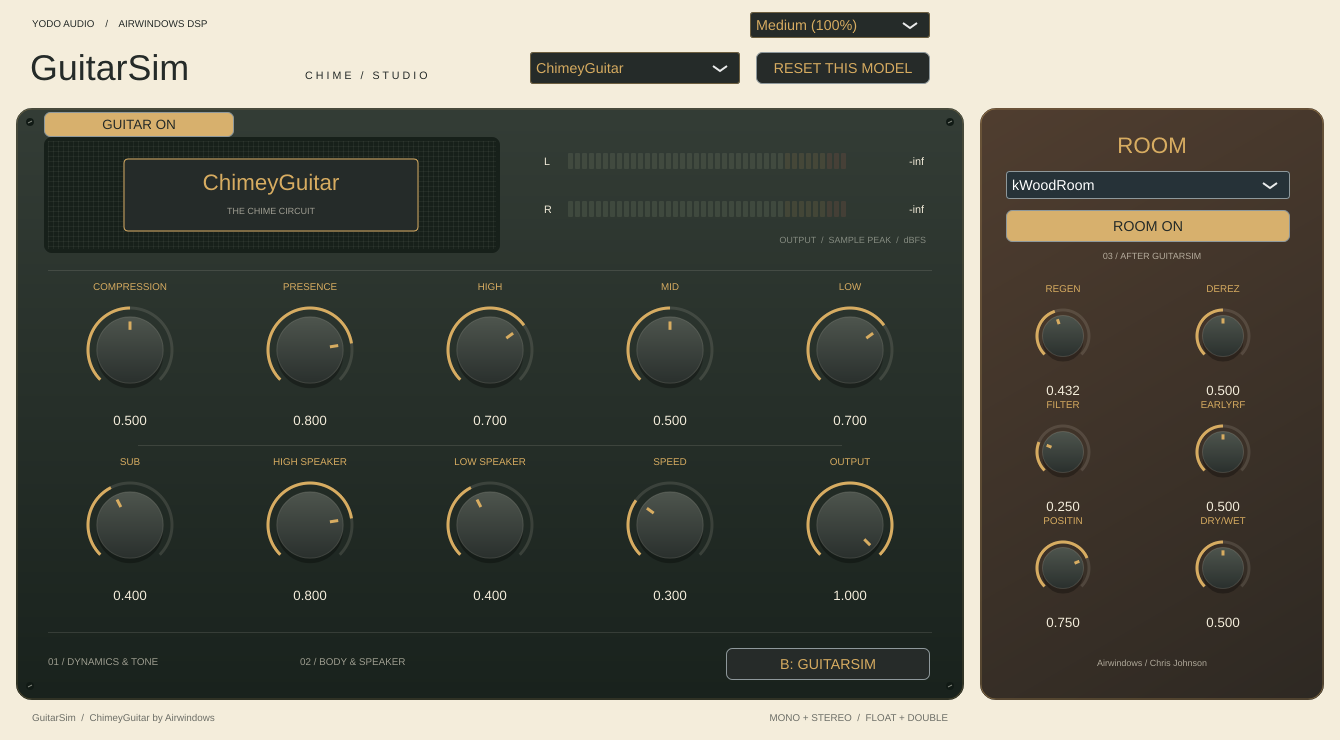
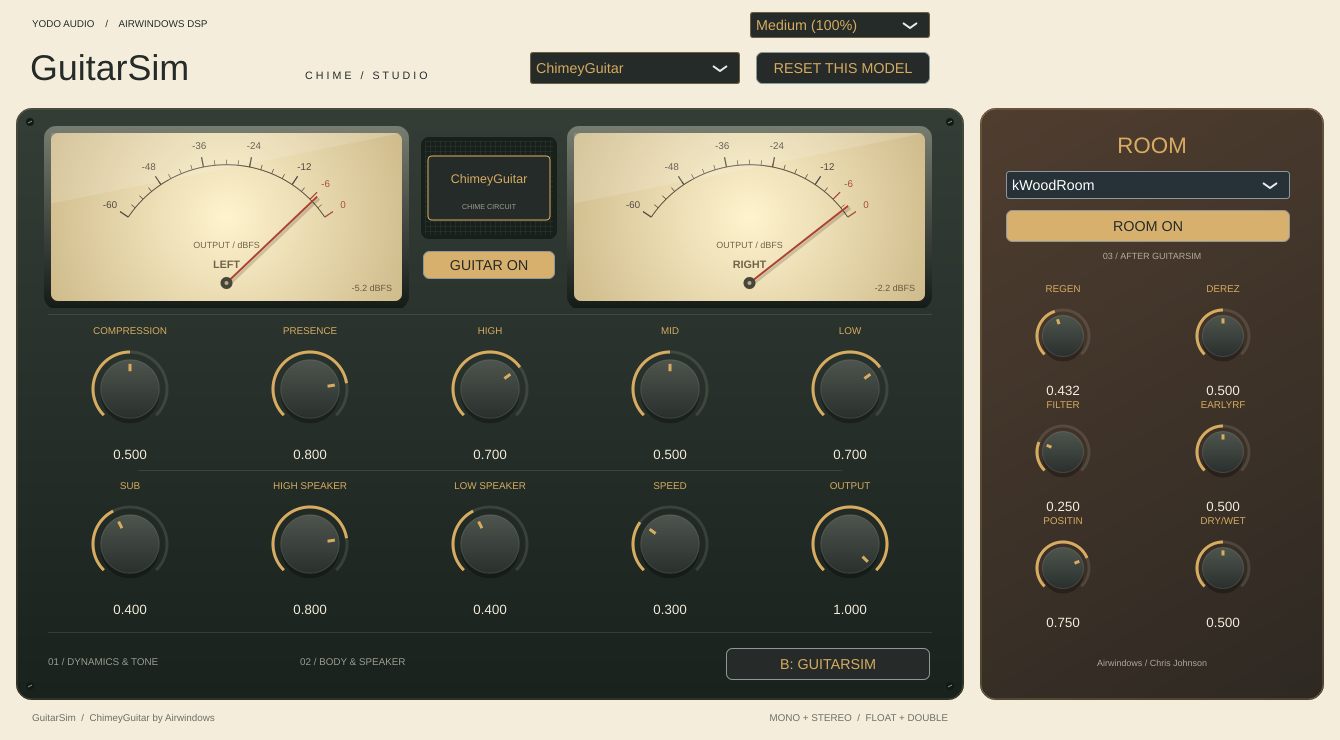
Use Tape-style stereo needle meters with matching damping

diff --git a/Source/Plugin.cpp b/Source/Plugin.cpp
@@ -6,6 +6,8 @@
 #include "kWoodRoomEngine.h"
 #include "WoodenBoxEngine.h"
 #include <atomic>
+#include "OutputMeter.h"
+#include "MeterBallistics.h"
 
 class GuitarProcessor final : public juce::AudioProcessor {
 public:
@@ -47,6 +49,8 @@ public:
     int selectedModel() const { return juce::jlimit(0,2,juce::roundToInt(modelValue->load())); }
     int selectedRoom() const { return roomModelValue->load()>.5f?1:0; }
     void prepareToPlay(double rate,int blockSize) override {
+        meterTimeoutSeconds.store(juce::jmax(.15,2.0*blockSize/rate),std::memory_order_relaxed);
+        meterSequence.fetch_add(1,std::memory_order_release);
         scratchSize=juce::jmax(8192,blockSize);
         floatScratch.setSize(6,scratchSize); doubleScratch.setSize(6,scratchSize);
         box.reset(rate); activeRoom=selectedRoom();
@@ -57,7 +61,7 @@ public:
         activeModel=selectedModel(); blend.reset(rate,.01);
         blend.setCurrentAndTargetValue(originalValue->load()>.5f?0.:1.); peaks[0]=0; peaks[1]=0;
     }
-    void releaseResources() override { peaks[0]=0; peaks[1]=0; }
+    void releaseResources() override { peaks[0]=0; peaks[1]=0; meterSequence.fetch_add(1,std::memory_order_release); }
     bool isBusesLayoutSupported(const BusesLayout& b) const override {
         const auto channels=b.getMainInputChannelSet();
         return (channels==juce::AudioChannelSet::mono() || channels==juce::AudioChannelSet::stereo()) && channels==b.getMainOutputChannelSet();
@@ -125,6 +129,7 @@ public:
             auto old=peaks[c].load(std::memory_order_relaxed);
             while(old<peak && !peaks[c].compare_exchange_weak(old,peak,std::memory_order_relaxed)) {}
         }
+        meterSequence.fetch_add(1,std::memory_order_release);
     }
     template<class T> void process(juce::AudioBuffer<T>& b) {
         juce::ScopedNoDenormals guard;
@@ -190,6 +195,8 @@ public:
     juce::AudioProcessorValueTreeState state;
     std::atomic<int> uiSize{2};
     std::atomic<float> peaks[2]{};
+    std::atomic<uint32_t> meterSequence{0};
+    std::atomic<double> meterTimeoutSeconds{.15};
 private:
     WoodenBoxEngine box;
     int activeRoom=0;
@@ -220,6 +227,15 @@ class GuitarPanel final : public juce::Component, private juce::Timer {
 public:
     explicit GuitarPanel(GuitarProcessor& p) : processor(p) {
         setLookAndFeel(&look);
+        addAndMakeVisible(leftMeter); addAndMakeVisible(rightMeter);
+        leftMeter.setComponentID("outputLeft"); rightMeter.setComponentID("outputRight");
+        lastMeterSequence=processor.meterSequence.load(std::memory_order_acquire);
+        for(size_t c=0;c<2;++c) {
+            targets[c]=processor.peaks[c].exchange(0,std::memory_order_relaxed);
+            ballistics[c].resetPeak(targets[c]);
+        }
+        leftMeter.setLevelDb(ballistics[0].getLevelDb()); rightMeter.setLevelDb(ballistics[1].getLevelDb());
+        lastMeterTime=juce::Time::getMillisecondCounterHiRes();
         for(auto& knob:knobs) {
             addAndMakeVisible(knob);
             knob.setSliderStyle(juce::Slider::RotaryHorizontalVerticalDrag);
@@ -282,18 +298,19 @@ public:
         guitarEnabled.onClick=[this] { refreshStages(); };
         roomEnabled.onClick=[this] { refreshStages(); };
         bindModel(processor.selectedModel()); bindRoom(); refreshStages();
-        setSize(1340,740); startTimerHz(30);
+        setSize(1340,740); startTimerHz(60);
     }
     ~GuitarPanel() override { stopTimer(); setLookAndFeel(nullptr); }
     std::function<void()> sizeChanged;
     void resized() override {
         sizeChoice.setBounds(750,12,180,26); selector.setBounds(530,52,210,32); reset.setBounds(756,52,174,32);
-        guitarEnabled.setBounds(44,112,190,25);
+        guitarEnabled.setBounds(423,251,132,28);
+        leftMeter.setBounds(44,126,365,182); rightMeter.setBounds(567,126,365,182);
         roomSelector.setBounds(1006,171,284,28);
         roomEnabled.setBounds(1006,210,284,32);
         for(int i=0;i<6;++i) roomKnobs[i].setBounds(988+(i%2)*160,294+(i/2)*116,150,108);
         original.setBounds(726,648,204,32);
-        for(int i=0;i<10;++i) knobs[static_cast<size_t>(i)].setBounds(44+(i%5)*180,292+(i/5)*175,172,140);
+        for(int i=0;i<10;++i) knobs[static_cast<size_t>(i)].setBounds(44+(i%5)*180,336+(i/5)*155,172,130);
     }
     void paint(juce::Graphics& g) override {
         using namespace style;
@@ -321,23 +338,20 @@ public:
             g.setColour(gold); g.setFont(juce::FontOptions(11.f));
             g.drawText(juce::String(shownRoom==0?controls::roomNames[i]:controls::boxNames[i]).toUpperCase(),988+(i%2)*160,278+(i/2)*116,150,22,juce::Justification::centred);
         }
-        // Woven speaker cloth, a small illuminated model badge, and stereo sample-peak meters.
-        const juce::Rectangle<float> cloth{44,137,456,116};
+        // Tape-style stereo needles flank the speaker-cloth model badge.
+        const juce::Rectangle<float> cloth{421,137,136,102};
         g.setColour(juce::Colour(0xff17201a)); g.fillRoundedRectangle(cloth,8);
         g.setColour(cream.withAlpha(.055f));
-        for(int x=48;x<498;x+=5) g.drawVerticalLine(x,141,249);
-        for(int y=141;y<250;y+=5) g.drawHorizontalLine(y,48,496);
-        g.setColour(ink); g.fillRoundedRectangle(123,158,296,74,5);
-        g.setColour(gold); g.drawRoundedRectangle({124.f,159.f,294.f,72.f},4,1);
-        g.setFont(juce::FontOptions(25.f)); g.drawText(controls::models[shownModel],128,165,286,34,juce::Justification::centred);
-        g.setFont(juce::FontOptions(10.f)); g.setColour(cream.withAlpha(.6f));
-        g.drawText(shownModel==2?"THE DELUXE CIRCUIT":"THE CHIME CIRCUIT",128,202,286,18,juce::Justification::centred);
-        for(int c=0;c<2;++c) drawMeter(g,544,151+c*48,level[c],c==0?"L":"R");
-        g.setColour(muted); g.setFont(juce::FontOptions(10.f));
-        g.drawText("OUTPUT  /  SAMPLE PEAK  /  dBFS",543,231,383,18,juce::Justification::right);
-        g.setColour(cream.withAlpha(.12f)); g.drawHorizontalLine(270,48,932); g.drawHorizontalLine(445,138,842); g.drawHorizontalLine(632,48,932);
+        for(int x=425;x<555;x+=5) g.drawVerticalLine(x,141,235);
+        for(int y=141;y<236;y+=5) g.drawHorizontalLine(y,425,553);
+        g.setColour(ink); g.fillRoundedRectangle(427,155,124,66,5);
+        g.setColour(gold); g.drawRoundedRectangle({428.f,156.f,122.f,64.f},4,1);
+        g.setFont(juce::FontOptions(14.f)); g.drawText(controls::models[shownModel],430,164,118,30,juce::Justification::centred);
+        g.setFont(juce::FontOptions(8.f)); g.setColour(cream.withAlpha(.6f));
+        g.drawText(shownModel==2?"DELUXE CIRCUIT":"CHIME CIRCUIT",430,199,118,16,juce::Justification::centred);
+        g.setColour(cream.withAlpha(.12f)); g.drawHorizontalLine(314,48,932); g.drawHorizontalLine(470,138,842); g.drawHorizontalLine(632,48,932);
         g.setColour(gold); g.setFont(juce::FontOptions(11.f));
-        for(int i=0;i<10;++i) g.drawText(juce::String(controls::name(shownModel,i)).toUpperCase(),44+(i%5)*180,276+(i/5)*175,172,22,juce::Justification::centred);
+        for(int i=0;i<10;++i) g.drawText(juce::String(controls::name(shownModel,i)).toUpperCase(),44+(i%5)*180,320+(i/5)*155,172,22,juce::Justification::centred);
         g.setColour(cream.withAlpha(.6f)); g.setFont(juce::FontOptions(11.f));
         g.drawText("01 / DYNAMICS & TONE",48,652,380,20,juce::Justification::left);
         g.drawText("02 / BODY & SPEAKER",300,652,380,20,juce::Justification::left);
@@ -371,16 +385,6 @@ private:
         guitarEnabled.setButtonText(guitarOn?"GUITAR ON":"GUITAR BYPASSED");
         roomEnabled.setButtonText(roomOn?"ROOM ON":"ROOM BYPASSED");
     }
-    void drawMeter(juce::Graphics& g,int x,int y,float db,const juce::String& label) {
-        g.setColour(style::cream); g.setFont(juce::FontOptions(12.f)); g.drawText(label,x,y,20,20,juce::Justification::left);
-        for(int i=0;i<40;++i) {
-            const auto threshold=-60.f+static_cast<float>(i)*1.65f;
-            const auto colour=threshold>=0?juce::Colour(0xffdf715b):threshold>=-9?style::gold:juce::Colour(0xffb8c99a);
-            g.setColour(colour.withAlpha(db>-60.f && db>=threshold?1.f:.12f)); g.fillRoundedRectangle(static_cast<float>(x+24+i*7),static_cast<float>(y+2),5,16,1);
-        }
-        g.setColour(db>=0?juce::Colour(0xffdf715b):style::cream);
-        g.drawText(db<=-60?"-inf":juce::String(db,1),x+310,y,70,20,juce::Justification::right);
-    }
     void bindModel(int model) {
         if(model==shownModel) return;
         for(auto& a:attachments) a.reset();
@@ -402,12 +406,18 @@ private:
             sizeChoice.setSelectedId(processor.uiSize.load(),juce::dontSendNotification); if(sizeChanged) sizeChanged();
         }
         const auto now=juce::Time::getMillisecondCounterHiRes();
-        const auto elapsed=lastTime>0?(now-lastTime)*.001:1./30.; lastTime=now;
-        for(int c=0;c<2;++c) {
-            const auto target=juce::Decibels::gainToDecibels(processor.peaks[c].exchange(0),-60.f);
-            level[c]=juce::jmax(target,level[c]-static_cast<float>(elapsed*24.));
+        const auto elapsed=(now-lastMeterTime)*.001;
+        lastMeterTime=now;
+        const auto sequence=processor.meterSequence.load(std::memory_order_acquire);
+        if(sequence!=lastMeterSequence) {
+            lastMeterSequence=sequence; idleSeconds=0;
+            for(size_t c=0;c<2;++c) targets[c]=processor.peaks[c].exchange(0,std::memory_order_relaxed);
+        } else {
+            idleSeconds+=elapsed;
+            if(idleSeconds>processor.meterTimeoutSeconds.load(std::memory_order_relaxed)) targets.fill(0);
         }
-        repaint(540,140,390,110);
+        for(size_t c=0;c<2;++c) ballistics[c].advance(targets[c],elapsed);
+        leftMeter.setLevelDb(ballistics[0].getLevelDb()); rightMeter.setLevelDb(ballistics[1].getLevelDb());
     }
     GuitarProcessor& processor;
     style::Look look;
@@ -427,8 +437,11 @@ private:
     std::unique_ptr<juce::AudioProcessorValueTreeState::ButtonAttachment> originalAttachment;
     juce::TooltipWindow tooltip{this,600};
     int shownModel=-1;
-    float level[2]{-60,-60};
-    double lastTime=0;
+    OutputMeter leftMeter{"LEFT"},rightMeter{"RIGHT"};
+    std::array<MeterBallistics,2> ballistics;
+    std::array<float,2> targets{};
+    uint32_t lastMeterSequence=0;
+    double lastMeterTime=0,idleSeconds=0;
 };
 
 class GuitarEditor final : public juce::AudioProcessorEditor {

diff --git a/tests/PluginChecks.cpp b/tests/PluginChecks.cpp
@@ -9,6 +9,8 @@
 #include "../Source/Controls.h"
 #include "../Source/kWoodRoomEngine.h"
 #include "../Source/WoodenBoxEngine.h"
+#include "../Source/OutputMeter.h"
+#include "../Source/MeterBallistics.h"
 juce::AudioProcessor* JUCE_CALLTYPE createPluginFilter();
 static void require(bool condition,const char* message) { if(!condition) throw std::runtime_error(message); }
 static juce::RangedAudioParameter& param(juce::AudioProcessor& p,const juce::String& id) {
@@ -56,9 +58,36 @@ template<class Engine, class T> void compare(juce::AudioProcessor& p,int model,c
     }
     require(p.getLatencySamples()==0,"Unexpected latency"); p.releaseResources();
 }
+void checkMeterDamping() {
+    MeterBallistics meter;
+    require(meter.advance(1.f,1.0/60)<-40.f,"Needle jumps immediately on a peak");
+    for(int i=0;i<90;++i) meter.advance(.5f,1.0/60);
+    require(std::abs(meter.getLevelDb()+6.0206f)<.05f,"Steady-level meter calibration changed");
+    const auto before=meter.getLevelDb();
+    meter.advance(0,1.0/60);
+    require(meter.getLevelDb()<before && meter.getLevelDb()>before-3.f,"Needle release is abrupt");
+    for(int i=0;i<360;++i) meter.advance(0,1.0/60);
+    require(meter.getLevelDb()<=-60.f,"Stopped meter does not return to rest");
+    // Equal elapsed time must give the same response despite UI timer jitter.
+    MeterBallistics regular,jittered;
+    for(int i=0;i<60;++i) regular.advance(.5f,1.0/60);
+    for(int i=0;i<20;++i) { jittered.advance(.5f,.01); jittered.advance(.5f,.04); }
+    require(std::abs(regular.getLevelDb()-jittered.getLevelDb())<1.e-4f,"Damping depends on timer cadence");
+    // Alternating peaks should produce much less needle swing than their raw 12 dB range.
+    MeterBallistics fluctuating;
+    fluctuating.resetPeak(.5f);
+    float low=0,high=-60;
+    for(int i=0;i<240;++i) {
+        auto db=fluctuating.advance(i%2==0?.25f:1.f,1.0/60);
+        if(i>120) { low=std::min(low,db); high=std::max(high,db); }
+    }
+    require(high-low<2.f,"Rapid peaks are not averaged enough");
+}
+
 int main(int argc,char** argv) {
     juce::ScopedJuceInitialiser_GUI init;
     try {
+        checkMeterDamping();
         std::unique_ptr<juce::AudioProcessor> p(createPluginFilter());
         require(p->getName()=="GuitarSim","Plugin name");
         require(p->getParameters().size()==44,"Unexpected parameters (no level matching)");
@@ -133,7 +162,34 @@ int main(int argc,char** argv) {
         require(std::isfinite(mono.getSample(0,256)),"Mono processing");
         p->releaseResources();
         // Exercise attachment rebinding, model-specific reset, UI scaling and render the actual editor.
+        // Publish real output peaks before opening the editor so its first frame
+        // displays the final chain's stereo output, including in saved previews.
+        std::array<float,10> previewBank{};
+        for(int i=0;i<10;++i) {
+            previewBank[i]=param(*restored,controls::id(1,i)).getValue();
+            set(*restored,controls::id(1,i),controls::defaults[1][i]);
+        }
+        restored->setPlayConfigDetails(2,2,48000,512); restored->prepareToPlay(48000,512);
+        float measuredL=0,measuredR=0;
+        for(int block=0;block<12;++block) {
+            juce::AudioBuffer<float> signal(2,512);
+            for(int i=0;i<512;++i) {
+                signal.setSample(0,i,.18f*std::sin(static_cast<float>(block*512+i)*.071f));
+                signal.setSample(1,i,.08f*std::sin(static_cast<float>(block*512+i)*.053f));
+            }
+            restored->processBlock(signal,midi);
+            measuredL=std::max(measuredL,signal.getMagnitude(0,0,512)); measuredR=std::max(measuredR,signal.getMagnitude(1,0,512));
+        }
+        for(int i=0;i<10;++i) set(*restored,controls::id(1,i),previewBank[i]);
         std::unique_ptr<juce::AudioProcessorEditor> editor(restored->createEditor());
+        auto* meterLeft=dynamic_cast<OutputMeter*>(find(*editor,"outputLeft"));
+        auto* meterRight=dynamic_cast<OutputMeter*>(find(*editor,"outputRight"));
+        require(meterLeft && meterRight,"Stereo needle meters missing");
+        require(measuredL>.001f && measuredR>.001f,"Meter test needs audible stereo output");
+        require(std::abs(meterLeft->getLevelDb()-juce::Decibels::gainToDecibels(measuredL))<1.e-4f,"Left meter not final output peak");
+        require(std::abs(meterRight->getLevelDb()-juce::Decibels::gainToDecibels(measuredR))<1.e-4f,"Right meter not final output peak");
+        require(editor->getChildComponent(0)->getLocalBounds().contains(meterLeft->getBounds()),"Left meter outside panel");
+        require(!meterLeft->getBounds().intersects(meterRight->getBounds()),"Needle meters overlap");
         require(editor->getWidth()==1340 && editor->getHeight()==740,"Default editor size");
         auto* roomSwitch=dynamic_cast<juce::Button*>(find(*editor,"roomEnabled")); require(roomSwitch,"Room switch");
         require(roomSwitch->getToggleState(),"Room switch attachment");

diff --git a/Source/OutputMeter.h b/Source/OutputMeter.h
@@ -1,0 +1,65 @@
+#pragma once
+#include <juce_gui_basics/juce_gui_basics.h>
+
+// Read-only output display. It never feeds back into audio processing.
+class OutputMeter final : public juce::Component {
+public:
+    explicit OutputMeter(juce::String channelName) : channel(std::move(channelName)) {
+        setTitle("Output level " + channel);
+        setDescription("Final output sample peak in dBFS, with a damped needle; not a VU or gain reduction meter");
+        setAccessible(true);
+    }
+    void setPeak(float linearPeak) {
+        setLevelDb(juce::Decibels::gainToDecibels(juce::jmax(0.f,linearPeak),-60.f));
+    }
+    void setLevelDb(float levelDb) {
+        db=juce::jmax(-60.f,levelDb);
+        repaint();
+    }
+    float getLevelDb() const { return db; }
+    void paint(juce::Graphics& g) override {
+        auto bounds=getLocalBounds().toFloat();
+        g.setColour(juce::Colours::black.withAlpha(.4f));
+        g.fillRoundedRectangle(bounds.reduced(1).translated(0,3),12);
+        g.setGradientFill(juce::ColourGradient(juce::Colour(0xff777d70),0,0,juce::Colour(0xff151b18),0,bounds.getHeight(),false));
+        g.fillRoundedRectangle(bounds,12);
+        auto face=bounds.reduced(7);
+        g.setGradientFill(juce::ColourGradient(juce::Colour(0xfffff4cf),face.getCentreX(),face.getCentreY(),juce::Colour(0xffcfbb8b),face.getRight(),face.getBottom(),true));
+        g.fillRoundedRectangle(face,7);
+        juce::Graphics::ScopedSaveState clip(g); g.reduceClipRegion(face.toNearestInt());
+        const float cx=bounds.getCentreX(),cy=bounds.getHeight()-25.f;
+        const float radius=juce::jmin(bounds.getWidth()*.385f,bounds.getHeight()*.65f);
+        auto angleFor=[](float value) { return juce::jmap(juce::jlimit(-60.f,0.f,value),-60.f,0.f,-.98f,.98f); };
+        auto point=[cx,cy](float angle,float distance) { return juce::Point<float>{cx+std::sin(angle)*distance,cy-std::cos(angle)*distance}; };
+        juce::Path arc; arc.addCentredArc(cx,cy,radius,radius,0,angleFor(-60),angleFor(0),true);
+        g.setColour(juce::Colour(0xff5a5141)); g.strokePath(arc,juce::PathStrokeType(1));
+        for(int value=-60;value<=0;value+=3) {
+            const bool major=value%12==0 || value==-6;
+            const auto angle=angleFor(static_cast<float>(value));
+            const auto a=point(angle,radius),b=point(angle,radius+(major?10.f:5.f));
+            g.setColour(value>=-6?juce::Colour(0xffa44f3e):juce::Colour(0xff514a3d));
+            g.drawLine({a,b},major?1.3f:.7f);
+            if(major) {
+                const auto centre=point(angle,radius+22);
+                g.setFont(juce::FontOptions(11.f));
+                g.drawText(juce::String(value),juce::Rectangle<float>(28,16).withCentre(centre),juce::Justification::centred);
+            }
+        }
+        g.setColour(juce::Colour(0xff706249)); g.setFont(juce::FontOptions(10.f));
+        g.drawText("OUTPUT / dBFS",0,static_cast<int>(cy-46),getWidth(),16,juce::Justification::centred);
+        g.setFont(juce::FontOptions(12.f).withStyle("Bold"));
+        g.drawText(channel,0,static_cast<int>(cy-27),getWidth(),16,juce::Justification::centred);
+        const auto tip=point(angleFor(db),radius+7);
+        g.setColour(juce::Colours::black.withAlpha(.16f)); g.drawLine(cx+2,cy+2,tip.x+2,tip.y+2,3);
+        g.setColour(juce::Colour(0xffad4234)); g.drawLine(cx,cy,tip.x,tip.y,2);
+        g.setColour(juce::Colour(0xff484639)); g.fillEllipse(cx-6,cy-6,12,12);
+        g.setColour(juce::Colour(0xffb6aa88)); g.fillEllipse(cx-2,cy-2,4,4);
+        g.setColour(juce::Colour(0xff675941)); g.setFont(juce::FontOptions(10.f));
+        g.drawText(db<=-60?"-inf dBFS":juce::String(db,1)+" dBFS",getWidth()-90,getHeight()-28,73,15,juce::Justification::right);
+        juce::Path reflection; reflection.addTriangle(face.getX(),face.getY(),face.getRight(),face.getY(),face.getX(),face.getY()+face.getHeight()*.42f);
+        g.setColour(juce::Colours::white.withAlpha(.14f)); g.fillPath(reflection);
+    }
+private:
+    juce::String channel;
+    float db=-60;
+};

diff --git a/Source/MeterBallistics.h b/Source/MeterBallistics.h
@@ -1,0 +1,26 @@
+#pragma once
+#include <algorithm>
+#include <cmath>
+
+// Smooth the displayed dB/needle position only. Never used in the audio path.
+class MeterBallistics {
+public:
+    static constexpr double attackSeconds=0.12;
+    static constexpr double releaseSeconds=0.45;
+    void resetPeak(float peak) { db=peakDb(peak); }
+    float advance(float peak,double elapsedSeconds) {
+        if(!std::isfinite(elapsedSeconds) || elapsedSeconds<=0) return db;
+        const float target=peakDb(peak);
+        const double timeConstant=target>db?attackSeconds:releaseSeconds;
+        const double amount=-std::expm1(-elapsedSeconds/timeConstant);
+        db+=static_cast<float>(amount*static_cast<double>(target-db));
+        if(db<-59.95f && target<=-60.f) db=-60.f;
+        return db;
+    }
+    float getLevelDb() const { return db; }
+private:
+    static float peakDb(float peak) {
+        return std::isfinite(peak) && peak>0.001f?20.f*std::log10(peak):-60.f;
+    }
+    float db=-60;
+};

diff --git a/README.md b/README.md
@@ -28,7 +28,7 @@ input with the complete guitar-plus-room chain, and meters show the final output
 - **Rotary controls:** drag or type a value from 0 to 1; double-click to restore that control's original default. Each model exposes its actual Airwindows parameters.
 - **Reset this model:** restores only the selected algorithm's controls. Other algorithms retain their settings.
 - **A: Original input / B: GuitarSim:** compare dry and processed audio with a 10 ms crossfade. This does not match their loudness. The engines continue running while listening to Original.
-- **Output meters:** stereo sample peaks, with red segments at and above 0 dBFS. The display decays when playback stops. No limiter is applied.
+- **Output meters:** illuminated stereo needle meters styled like ToTape Studio. They display final output sample peaks in dBFS with the same 120 ms attack and 450 ms release damping as Tape. The needles return to rest when playback stops; the numerical readouts show levels above 0 dBFS. These are sample-peak displays, not calibrated VU meters. No limiter is applied.
 - **Interface size:** 75%, 100%, or 125%, saved with the session.
 
 ChimeyGuitar and ChimeyGuitar2 expose Compression, Presence, High, Mid, Low, Sub, High Speaker, Low Speaker, Speed, and Output. ChimeyDeluxe exposes Hell, Fizz, Pick, Satan, Danger, Critical, High Meat, Low Meat, Swing, and Rarely. Values use the upstream normalized scale; the UI does not invent dB or frequency units for these nonlinear controls.

diff --git a/THIRD_PARTY.md b/THIRD_PARTY.md
@@ -12,7 +12,8 @@ The three corresponding directories contain unmodified upstream `.h`, `.cpp`, an
 
 ## ToTape Studio UI design
 
-The rotary LookAndFeel in `Source/Look.h` is adapted from Johan Doornenbal's MIT-licensed ToTape Studio, commit `e88e2df9cd7006e28d73eaec9ff4171b6068c7dc`:
+The rotary LookAndFeel in `Source/Look.h`, needle display in `Source/OutputMeter.h`
+and damping in `Source/MeterBallistics.h` are adapted from Johan Doornenbal's MIT-licensed ToTape Studio, commit `e88e2df9cd7006e28d73eaec9ff4171b6068c7dc`:
 https://github.com/johandoornenbal/tape
 
 Copyright (c) 2026 Johan Doornenbal. The MIT permission and warranty notice is reproduced in this repository's LICENSE.
